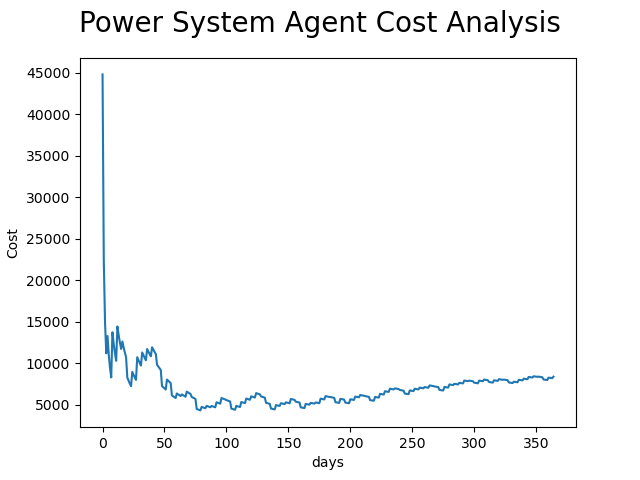
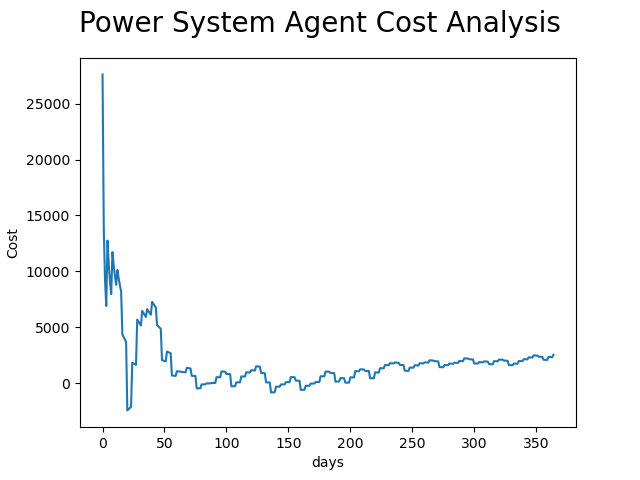
# update model Environment

diff --git a/agent.py b/agent.py
@@ -15,7 +15,7 @@ class Agent(object):
         high_state_value = self.env.state_space(PVmax, Ebmax, Dmax)
 
         num_states = high_state_value - low_state_value + 1
-        num_actions = 2
+        num_actions = 3
         if os.path.exists(q_table_path):
             print("Q table Loading !!!")
             self.load_q_table()
@@ -41,6 +41,14 @@ class Agent(object):
                 Eb  = state_values[1]
                 Ed  = state_values[2]
                 E_grid = Ed - Epv - Eb
+
+                if 18 <= self.env.hours[total_time_steps] < 22:
+                    c = 26.6
+                elif 5 <= self.env.hours[total_time_steps] < 18:
+                    c = 21.8
+                else:
+                    c = 15.4
+
                 cost = c*max([E_grid, 0]) + p*min([E_grid, 0])
                 reward = -cost
                 new_state_values, new_state = self.env.step(total_time_steps, state_values, action)
@@ -57,7 +65,7 @@ class Agent(object):
             total_rewards_in_days.append(day_reward)
             Egrid_in_days.append(Egrid_day)
         Agent.plot_cumulative_costs(total_rewards_in_days,num_days)
-        Agent.plot_cumulative_Egrid(Egrid_in_days,num_days)
+        # Agent.plot_cumulative_Egrid(Egrid_in_days,num_days)
 
     @staticmethod
     def plot_cumulative_costs(total_rewards_in_days,num_days):

diff --git a/env.py b/env.py
@@ -18,11 +18,15 @@ class Environment(object):
 
     @staticmethod
     def sample_action():
-        return np.random.choice([0,1])
+        return np.random.choice([0,1, 2])
 
     def step(self, time_step, prev_state_values, action):
-        Ac = 10 if action == 0 else 0
-        Ad = 10 if action == 1 else 0
+        if action == 0:
+            Ac, Ad = 10, 0
+        elif action == 1:
+            Ac, Ad = 0, 10
+        elif action == 2:
+            Ac, Ad = 0, 0
 
         Eb_t = prev_state_values[1]
         Eb_t1 = Eb_t + Ac - Ad

diff --git a/variables.py b/variables.py
@@ -9,15 +9,14 @@ Dmax = 340
 
 n_bins = 10
 
-c = 20
-p = 15
+p = 22
 learning_rate = 10e-1
 eps = 0.5
 discount_factor = 0.99
 num_days = 365
 
 initial_state = (PVmin, Ebmax, 2.5)
-initial_action = 1 # (charging, discharging)
+initial_action = 1 # (charging, discharging, Nothing)
 
 demand_csv_path = 'Data/demand.csv'
 data_csv_path = 'Data/solar.csv'
